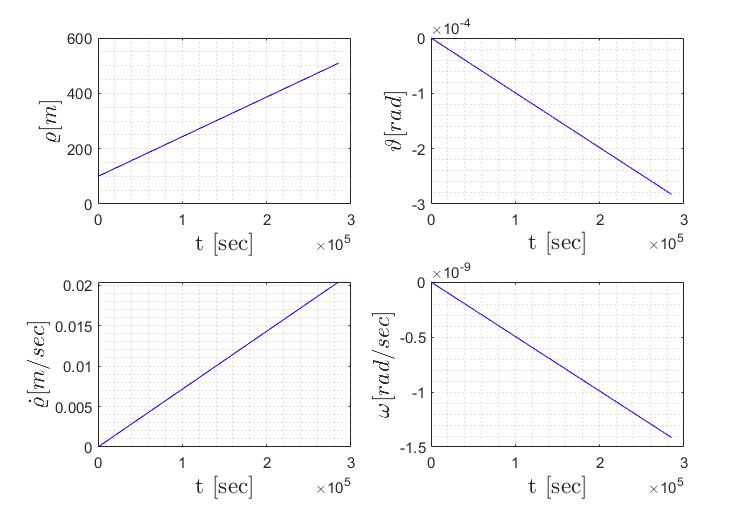
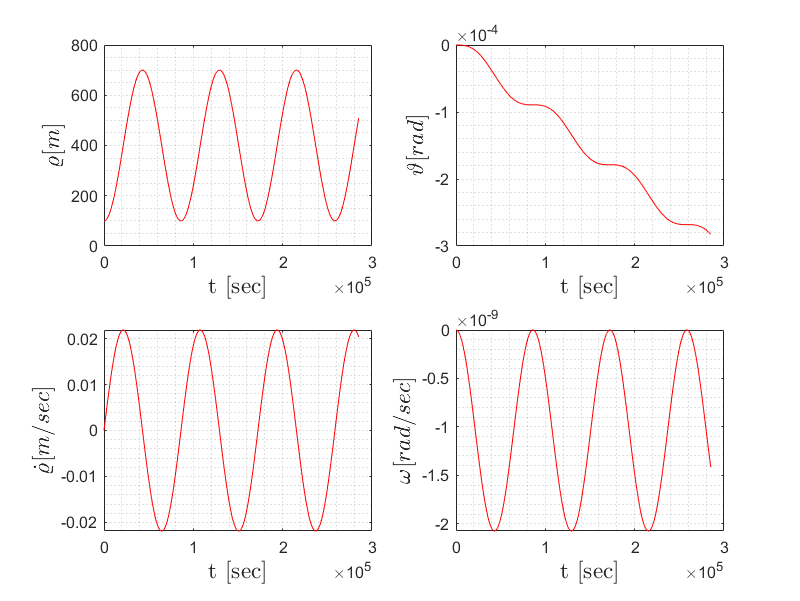
Add files via upload

diff --git a/Exercises/Exercise-1/Code/satellite_simulation.m b/Exercises/Exercise-1/Code/satellite_simulation.m
@@ -12,14 +12,15 @@ global fe
 global fa
 global k
 
-
+                                
 fa = 0;                     % N
-fe = -1;                     % N
+fe = 0;                     % N
 r0 = 4.218709065*1e7;       % m
 w0 = 7.29219108*1e-5;       % rad/sec
-k = w0^2*r0^3;              % N
-t_span = [0 285120];        % sec
-%t_span = [0 11880];        % sec
+k = w0^2*r0^3;                  % N
+dt = 0.01;                     % sec
+t_span = 0:dt:285120;        % sec
+% t_span = 0:dt:11880;        % sec
 %% Nonlinear System Solving
 x0 = [r0; 0; 0; w0];
 
@@ -37,9 +38,9 @@ B = [0  0;
      0  1/r0];
 C = eye(4)';
 D = 0;
-u = [fa; fe].*ones(size(t_span,2));
-z0 = [0; 0; 0; 0];
-%z0 = [0; 0; 0; 0];
+u = [fa; fe].*ones(size(t_span));
+z0 = [100; 0; 0; 0];
+% z0 = [0; 0; 0; 0];
 sys = ss(A,B,C,D);
 z = lsim(sys,u,t_span,z0);
 
@@ -76,25 +77,25 @@ grid minor;
 figure(2);
 clf;
 subplot(2,2,1);
-plot(t_span, z(:,1),'b-');
+plot(t_span, z(:,1),'r-');
 xlabel('t [sec]', "Interpreter", "latex","FontSize",14);
 ylabel('$\varrho  [m]$', "Interpreter", "latex","FontSize",14);
 grid minor;
 
 subplot(2,2,3);
-plot(t_span, z(:,2),'b-');
+plot(t_span, z(:,2),'r-');
 xlabel('t [sec]', "Interpreter", "latex","FontSize",14);
 ylabel('$\dot{\varrho}  [m/sec]$', "Interpreter", "latex","FontSize",14);
 grid minor;
 
 subplot(2,2,2);
-plot(t_span, z(:,3),'b-');
+plot(t_span, z(:,3),'r-');
 xlabel('t [sec]', "Interpreter", "latex","FontSize",14);
 ylabel('$\vartheta  [rad]$', "Interpreter", "latex","FontSize",14);
 grid minor;
 
 subplot(2,2,4);
-plot(t_span, z(:,4),'b-');
+plot(t_span, z(:,4),'r-');
 xlabel('t [sec]', "Interpreter", "latex","FontSize",14);
 ylabel('$\omega  [rad/sec]$', "Interpreter", "latex","FontSize",14);
 grid minor;

diff --git a/Exercises/Exercise-1/Code/stability.m b/Exercises/Exercise-1/Code/stability.m
@@ -1,0 +1,35 @@
+%% Stability Analysis Exable
+% Assignment 1 - Exercise 3
+%       Name: George Krommydas
+%       A.M.: 02121208
+
+clc;
+clear;
+close all;
+syms z y k l
+
+
+%% Dynamical System
+x = 0.5:0.000001:2.5;
+x_dot = -(x-1).*((x-2).^2);
+
+% Circle Parameters
+R = 0.5;
+r = 0.3;
+z0 = 0;
+y0 = 2;
+
+% Plot
+figure(1);
+plot(x, x_dot,'r-');
+hold on;
+plot(x, zeros(size(x)),'b--');
+fimplicit((y-y0).^2 + (z-z0).^2 - R^2,'k-');
+fimplicit((k-y0).^2 + (l-z0).^2 - r^2,'k-');
+plot(1.80279,-0.0312219, 'kx','LineWidth',2);
+plot(1,0,'ko','LineWidth',1);
+plot(2,0,'ko','LineWidth',1);
+axis equal;
+grid minor;
+xlabel("$x$","Interpreter","latex","FontSize",16);
+ylabel("$\dot{x}$","Interpreter","latex","FontSize",16)
